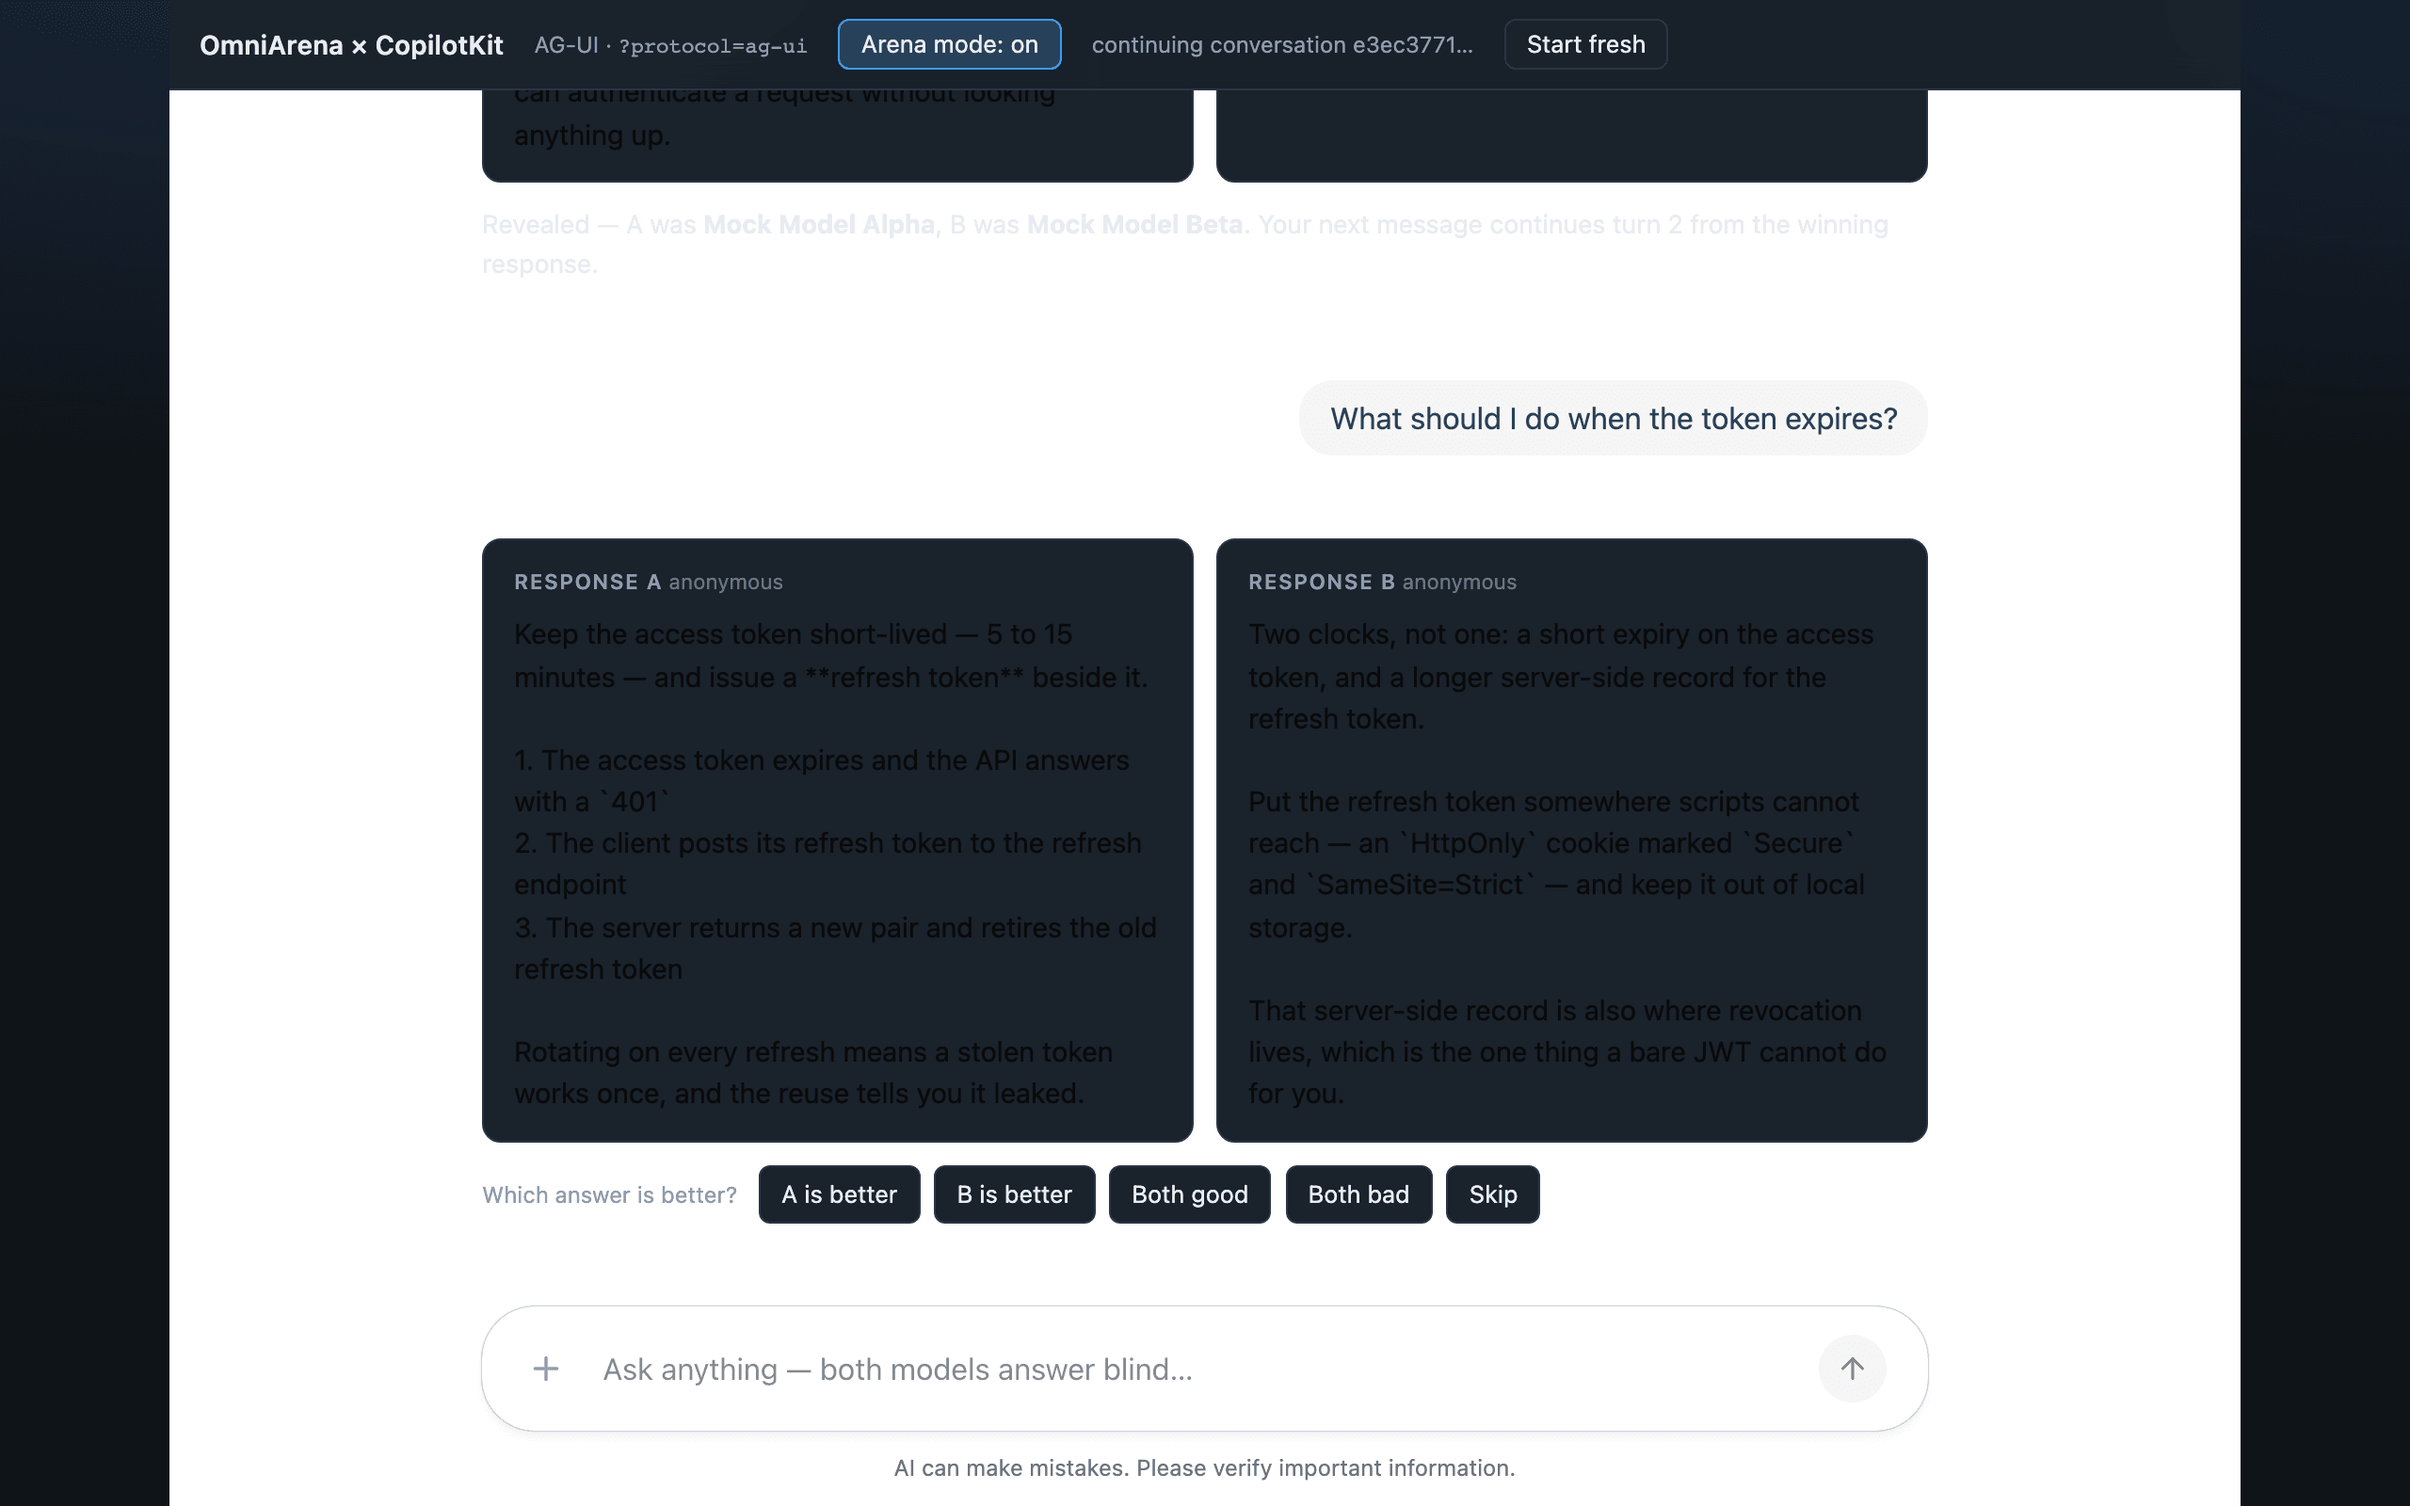
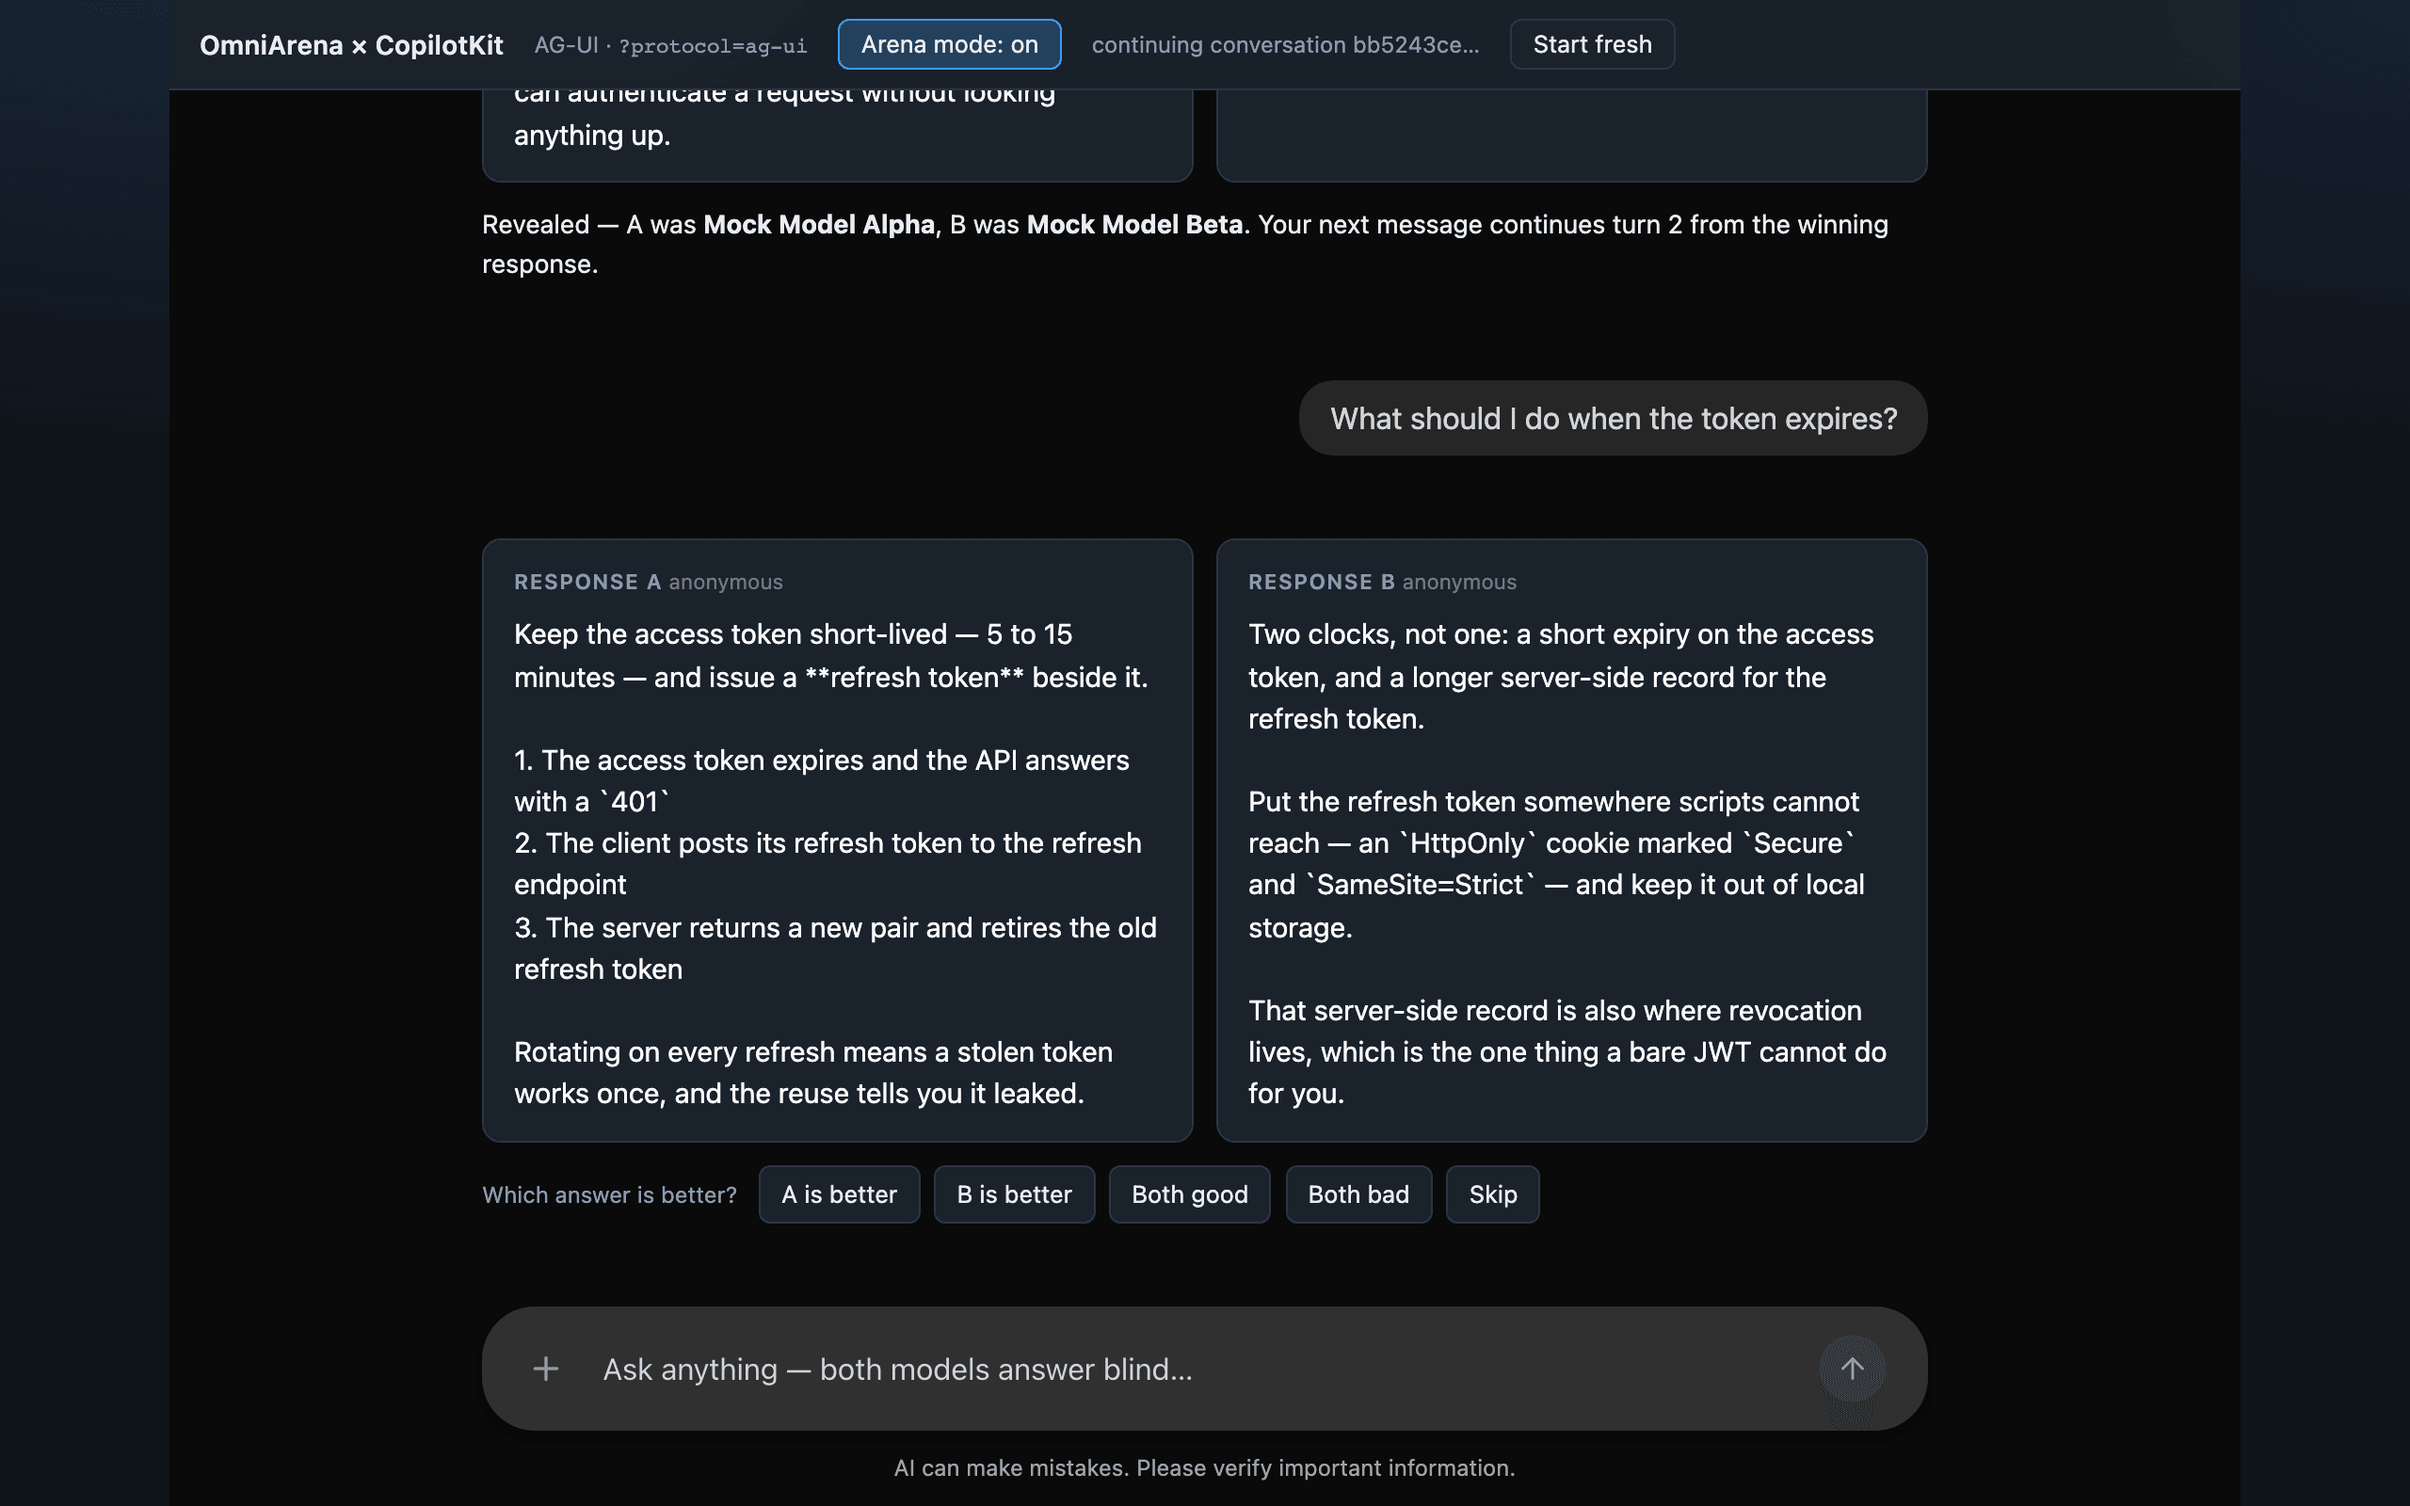
fix(integrations): CopilotKit chat renders light inside our dark shell
CopilotKit v2 ships a dark variant gated on an ancestor .dark class
(`.dark [data-copilotkit]`); we never set it, so the stock chat
(user bubble, input, chrome) rendered with light defaults against our
dark arena theme. Add class="dark" to <html> and color-scheme: dark
for native controls. Re-captured the five doc screenshots with the
coherent theme. E2E 10/10.

diff --git a/integrations/copilotkit/app/globals.css b/integrations/copilotkit/app/globals.css
@@ -1,6 +1,8 @@
 @import "@copilotkit/react-core/v2/styles.css";
 
 :root {
+  /* Dark app: native controls (scrollbars, inputs) follow suit. */
+  color-scheme: dark;
   --arena-bg: #0f1419;
   --arena-surface: #1a222c;
   --arena-border: #2a3544;

diff --git a/integrations/copilotkit/app/layout.tsx b/integrations/copilotkit/app/layout.tsx
@@ -13,7 +13,7 @@ export default function RootLayout({
   children: React.ReactNode;
 }) {
   return (
-    <html lang="en">
+    <html lang="en" className="dark">
       <body>{children}</body>
     </html>
   );
